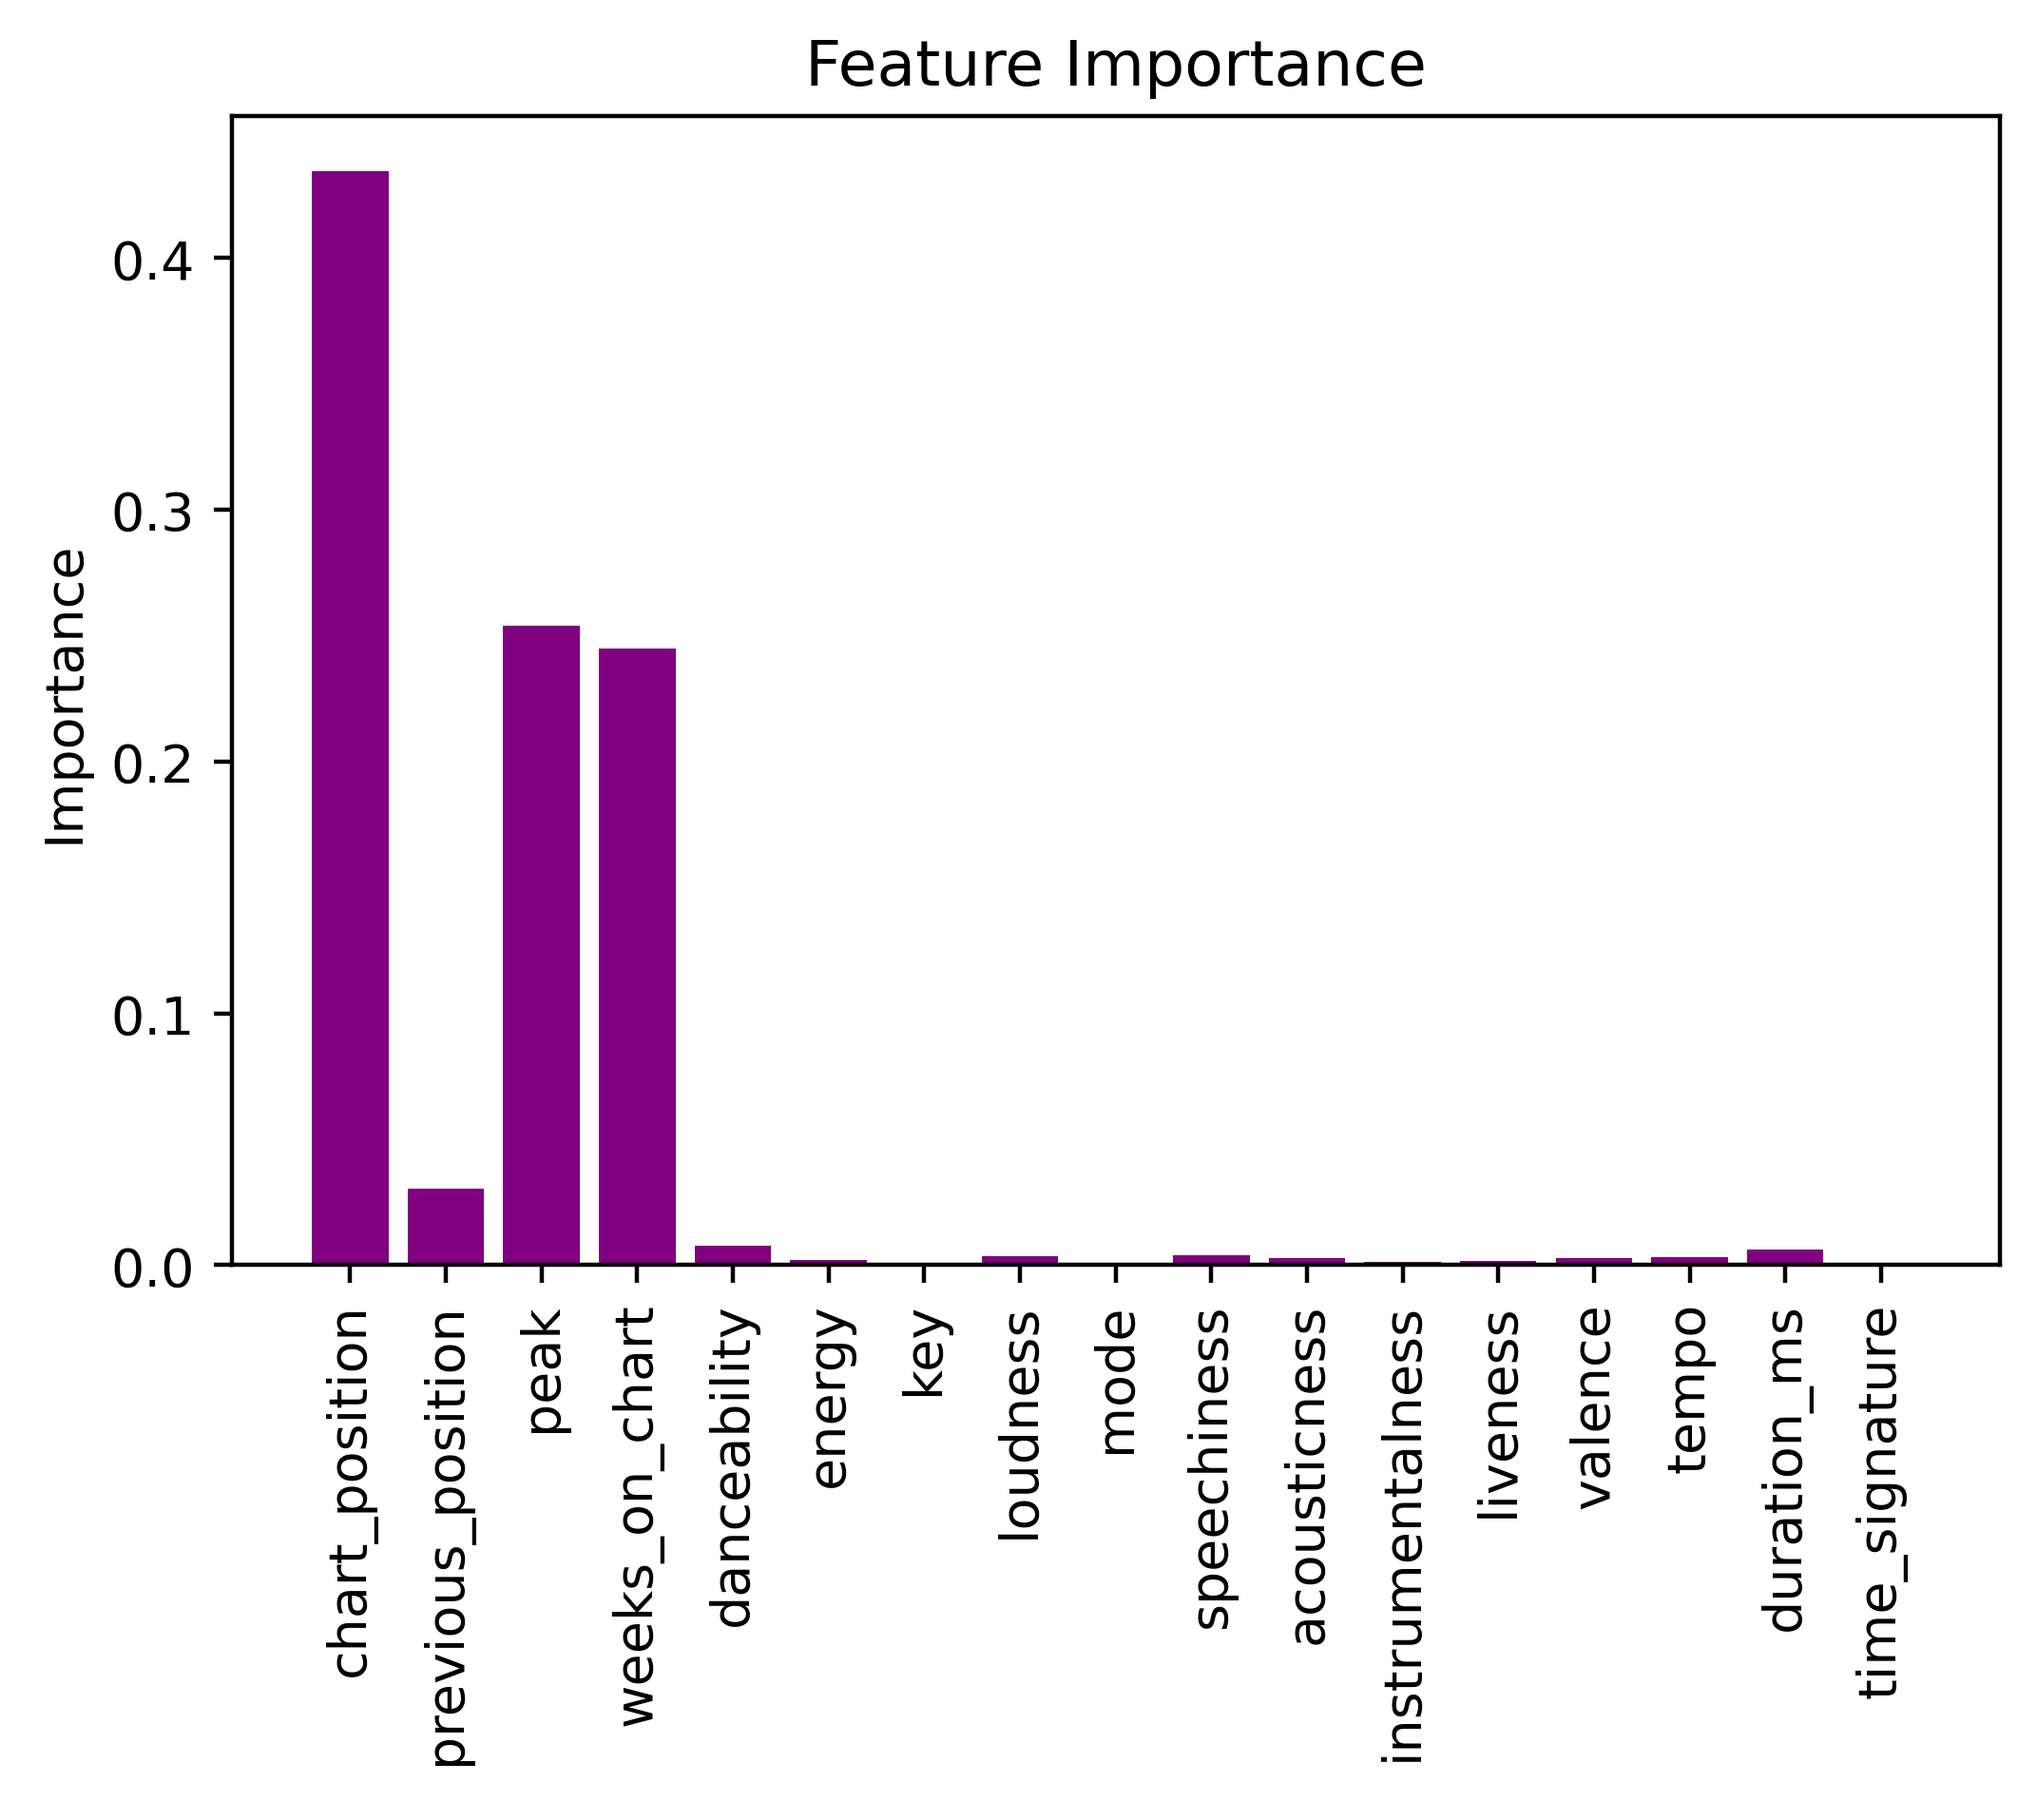
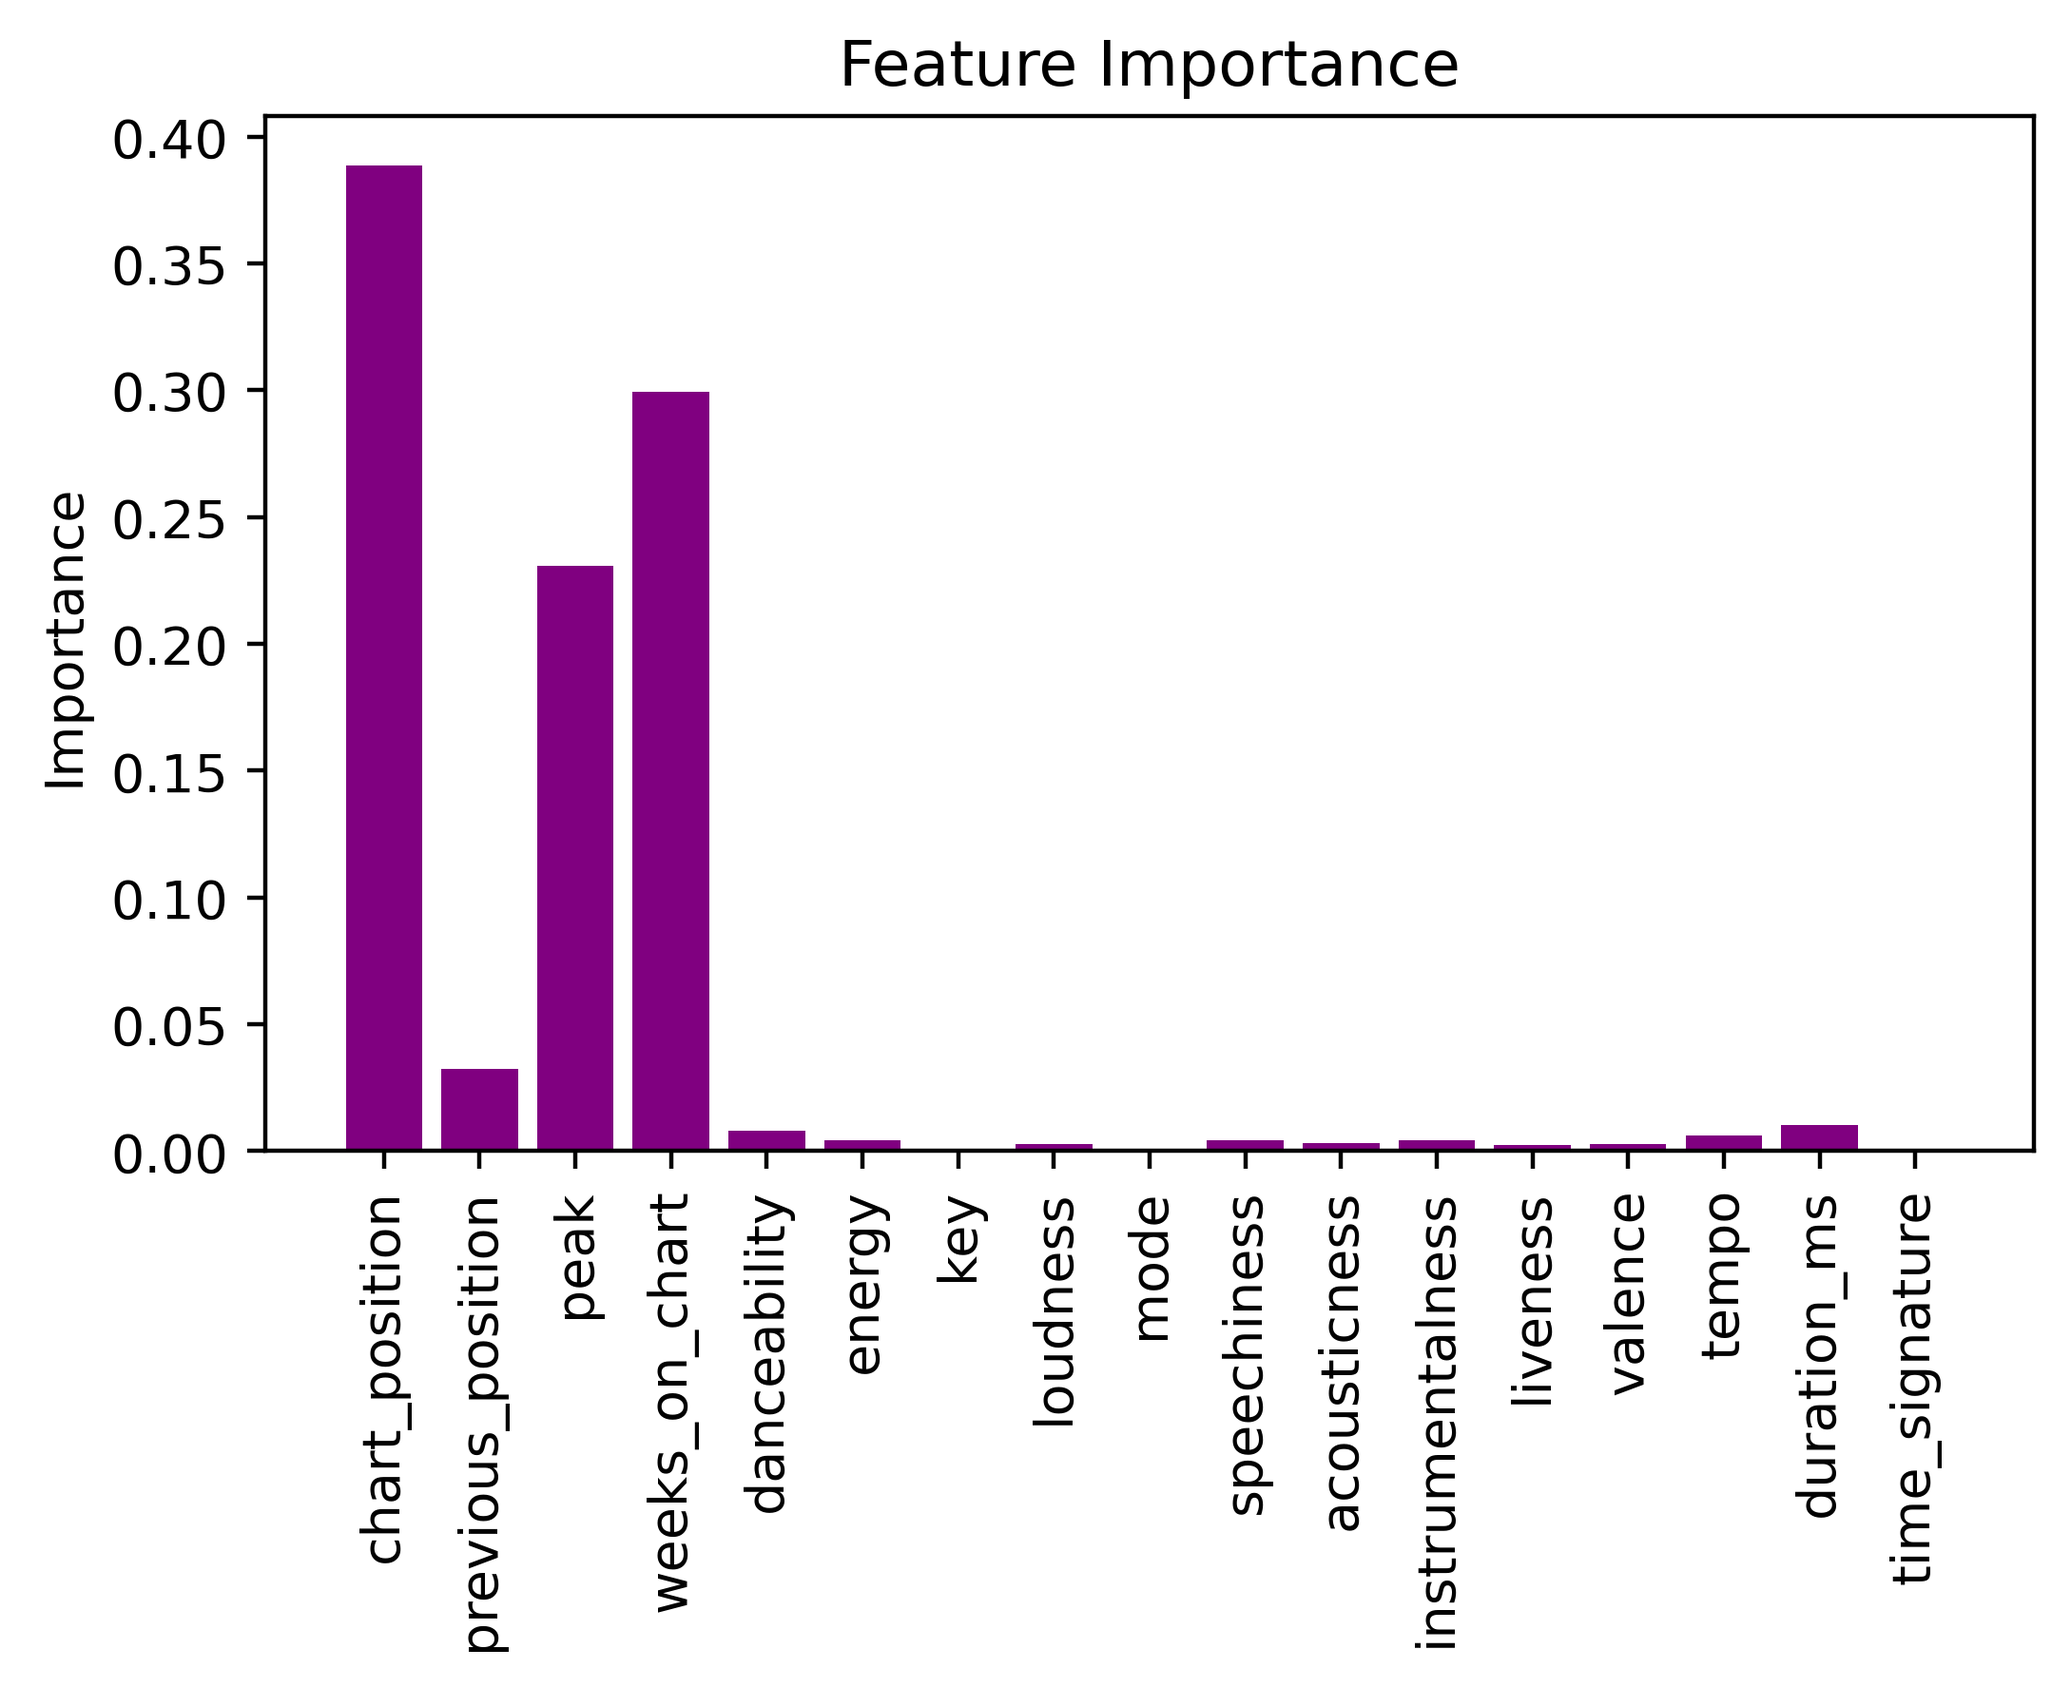
image adjust in readme

Changed region(s): [[0.0, 0.0, 0.9855, 0.9915]]

diff --git a/README.md b/README.md
@@ -56,7 +56,7 @@ Continuing off our [last project](https://github.com/reccleston/music-project) ,
 *Fig. 1: Top Songs Barchart showed that Top Danceable Songs were not Hits*
 
 
-![Features](ryan/image.png)
+![Features](data/feature_importanceW2021.png)
 *Fig. 2: Feature Importance Barchart showed stronger importance in Billboard Attributes*
 
 This led us to pivot our inputs for our machine learning models to include more insightful information like the attributes listed in the [Billboard dataset](BB_Final.csv). Some examples of these new attributes are:
